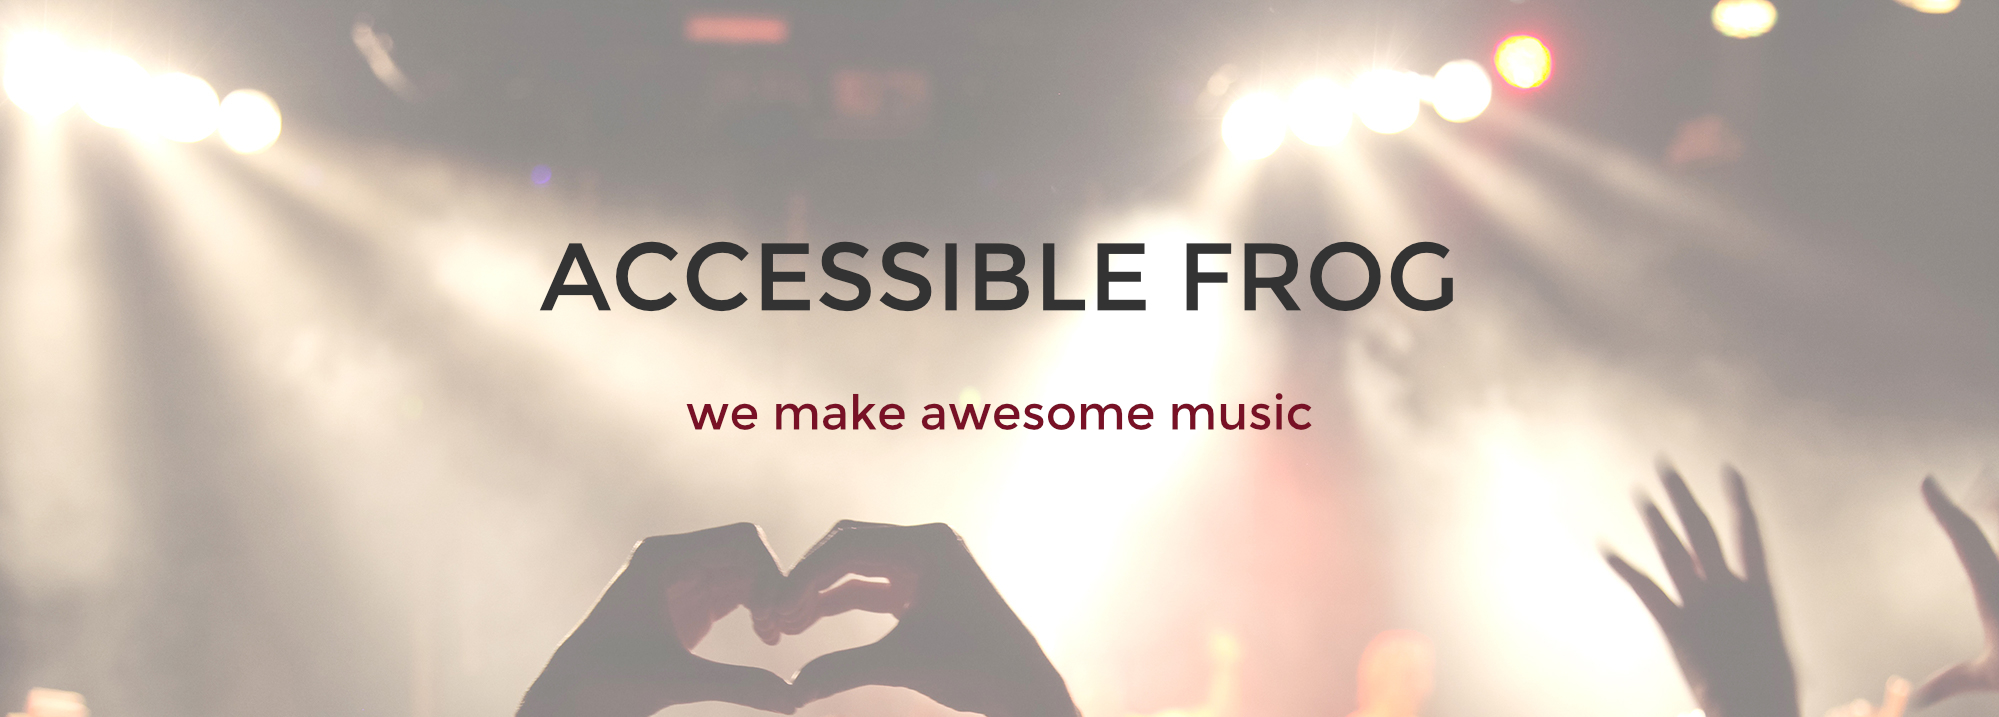
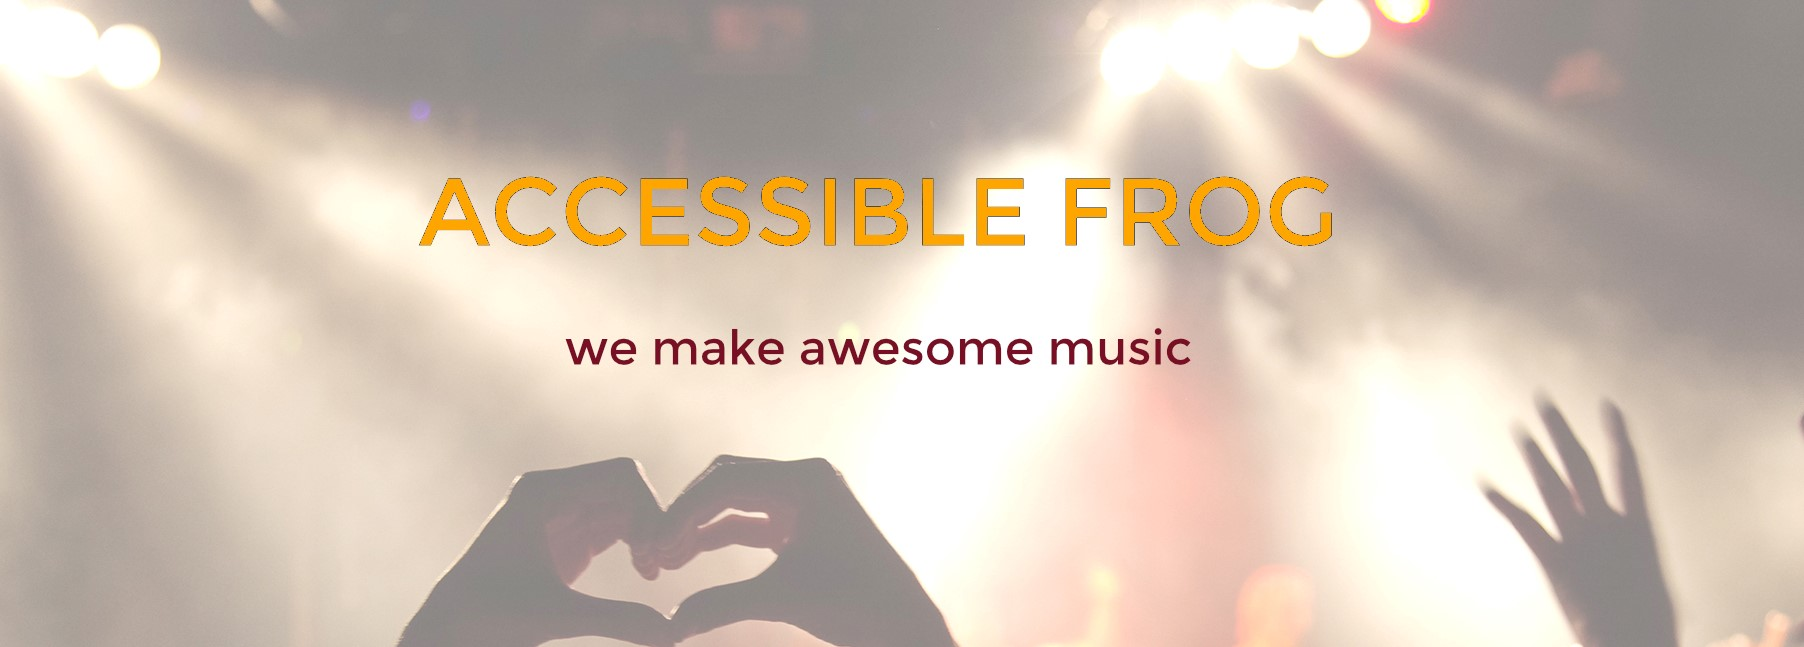
corrected tour site

diff --git a/tour.html b/tour.html
@@ -1,5 +1,5 @@
 <!doctype html>
-<html>
+<html lang="en">
   <head>
       <meta charset="utf-8">
       <link href="css/styles.css" rel="stylesheet" type="text/css" />
@@ -27,15 +27,36 @@
         <!-- The following images are decorative for this project. -->
         <!-- Please see the project instructions for information on how to handle these. -->
           <img class="pick" src= "img/guitar_pick.png" alt="This is a guitar pick">
-          <p class= "heading">Tour Dates</p>
+          <h1>Tour Dates</h1>
           <img class="pick" src= "img/guitar_pick.png" alt="This is a guitar pick also">
-          <pre>
-                Date                             Venue                             Location
-                Mar 10 - 12                 The Warfield                  San Francisco, CA
-                Mar 20 - 23                 Pepsi Center                  Denver, CO
-                Apr 2 - 4                      Beacon Theatre             New York City, NY
-                Apr 10                         Paramount Theatre      Seattle, WA
-          </pre>
+          <table>
+          <caption>Tour Dates</caption>
+            <tr>
+              <th scope="col">Date</th>
+              <th scope="col">Venue</th>
+              <th scope="col">Location</th>
+            </tr>
+            <tr>
+              <td>Mar 10 - 12</td>
+              <td>The Warfield</td>
+              <td>San Fransisco CA</td>
+            </tr>
+            <tr>
+              <td>Mar 29 - 23</td>
+              <td>The Pepsi Center</td>
+              <td>Denver, CO</td>
+            </tr>
+            <tr>
+              <td>Apr 2 - 4</td>
+              <td>Beacon Theatre</td>
+              <td>New York City, NY</td>
+            </tr>
+            <tr>
+              <td>Apr 10</td>
+              <td>Paramount Theatre</td>
+              <td>Seattle, WA</td>
+            </tr>
+          </table>
         </div>
       </div>
     </main>

diff --git a/index.html b/index.html
@@ -1,5 +1,5 @@
 <!doctype html>
-<html>
+<html lang="en">
   <head>
       <meta charset="utf-8">
       <link href="css/styles.css" rel="stylesheet" type="text/css" />
@@ -25,7 +25,7 @@
         <div class="flex">
           <img class="photo" src= "img/soul_of_the_frog.jpg">
           <div class="information">
-            <p class="heading">New album out now</p>
+            <h1>New album out now</h1>
             <p>Soul of the Frog</p>
             <p>Digital/CD/ 2 x LP</p>
             <a href="#" class="buy">Purchase Album</a>
@@ -37,7 +37,7 @@
         <div class="flex">
           <img class="photo" src= "img/lead_singer.jpg">
           <div class="information">
-            <p class="heading">About the band</p>
+            <h1>About the band</h1>
             <p>Photo booth aliquip pinterest meggings. Sapiente commodo wolf put a bird on it fingerstache gentrify, meh polaroid vegan everyday carry.</p>
           </div>
         </div>
@@ -46,9 +46,9 @@
 
     <footer>
       <ul>
-        <li><a href="#" class="social twitter"></a></li>
-        <li><a href="#" class="social youtube"></a></li>
-        <li><a href="#" class="social spotify"></a></li>
+        <li><a href="#" class="social twitter"><img src="img/twitter-32.png" alt="twitter logo link"></a></li>
+        <li><a href="#" class="social youtube"><img src="img/youtube-32.png" alt="youtube logo link"></a></li>
+        <li><a href="#" class="social spotify"><img src="img/spotify-32.png" alt="spotify logo link"></a></li>
       </ul>
       <p class="copyright">Copyright 2015, Accessible Frog</p>
     </footer>

diff --git a/css/styles.css b/css/styles.css
@@ -16,11 +16,11 @@ body {
 
 a {
   text-decoration: none;
-  color: #999;
+  color: #ffa500;
 }
 
 a:hover {
-  color: #999;
+  color: #fff;
 }
 
 /* Section Styles */
@@ -95,7 +95,7 @@ header .name{
   margin: 30px;
   padding: 20px 40px 40px;
   text-align: left;
-  border-top: 4px solid #781125;
+  border-top: 4px solid #ffa500;
   clear: both;
 }
 .card:hover {
@@ -117,10 +117,10 @@ header .name{
   position: absolute;*/
 }
 
-.heading{
+h1{
   font-size: 2em;
   text-transform: uppercase;
-  color: #781125;
+  color: #ffa500;
   margin-top: 10px;
 }
 
@@ -146,6 +146,9 @@ footer ul {
 footer ul li {
   display: inline-block;
 }
+footer p {
+  color: #fff;
+}
 
 a.social {
   display: inline-block;
@@ -155,18 +158,6 @@ a.social {
   background-size: 30px 30px;
   opacity: .4;
   transition: all .5s;
-}
-
-a.twitter {
-  background-image: url(../img/twitter-32.png);
-}
-
-a.youtube {
-  background-image: url(../img/youtube-32.png);
-}
-
-a.spotify {
-  background-image: url(../img/spotify-32.png);
 }
 
 a.social:hover {
@@ -202,6 +193,7 @@ a.social:hover {
 
   main p {
     line-height: 1.6em;
+    color: #fff;
   }
 
   .card{

diff --git a/css/tour.css b/css/tour.css
@@ -1,10 +1,11 @@
 /* Tour page styles */
 
-pre {
+table {
   font-family: 'Open Sans', sans-serif;
+  color: white;
 }
 
-.heading{
+.h1{
   display: inline-block;
   margin: 0;
 }

diff --git a/survey.html b/survey.html
@@ -1,5 +1,5 @@
 <!doctype html>
-<html>
+<html lang="en">
   <head>
     <meta charset="utf-8">
     <link href="css/styles.css" rel="stylesheet" type="text/css" />
